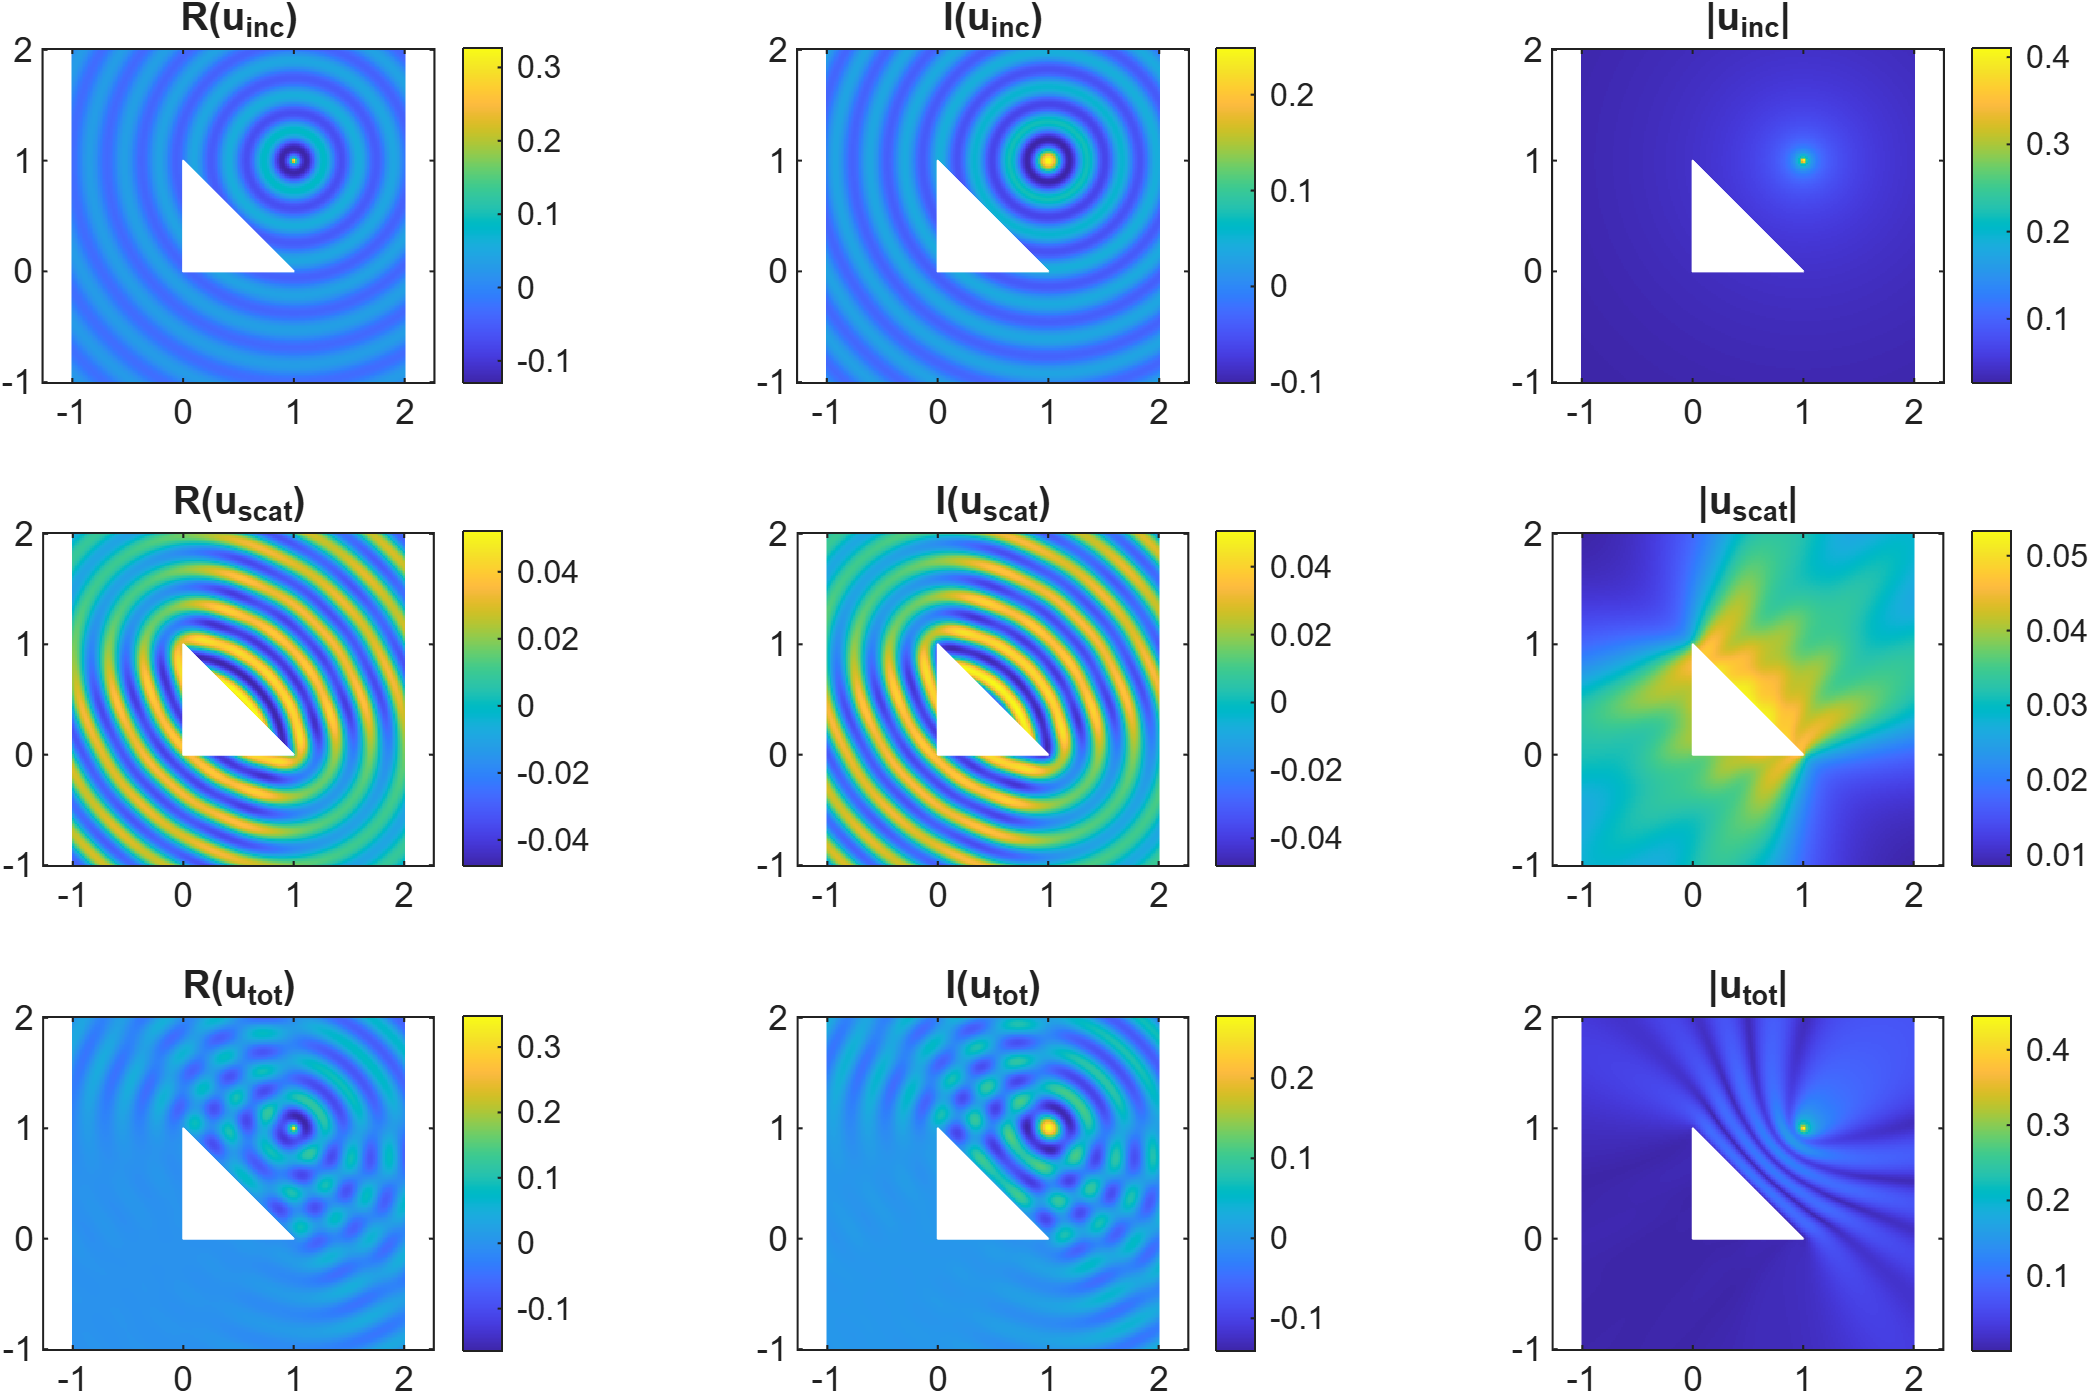
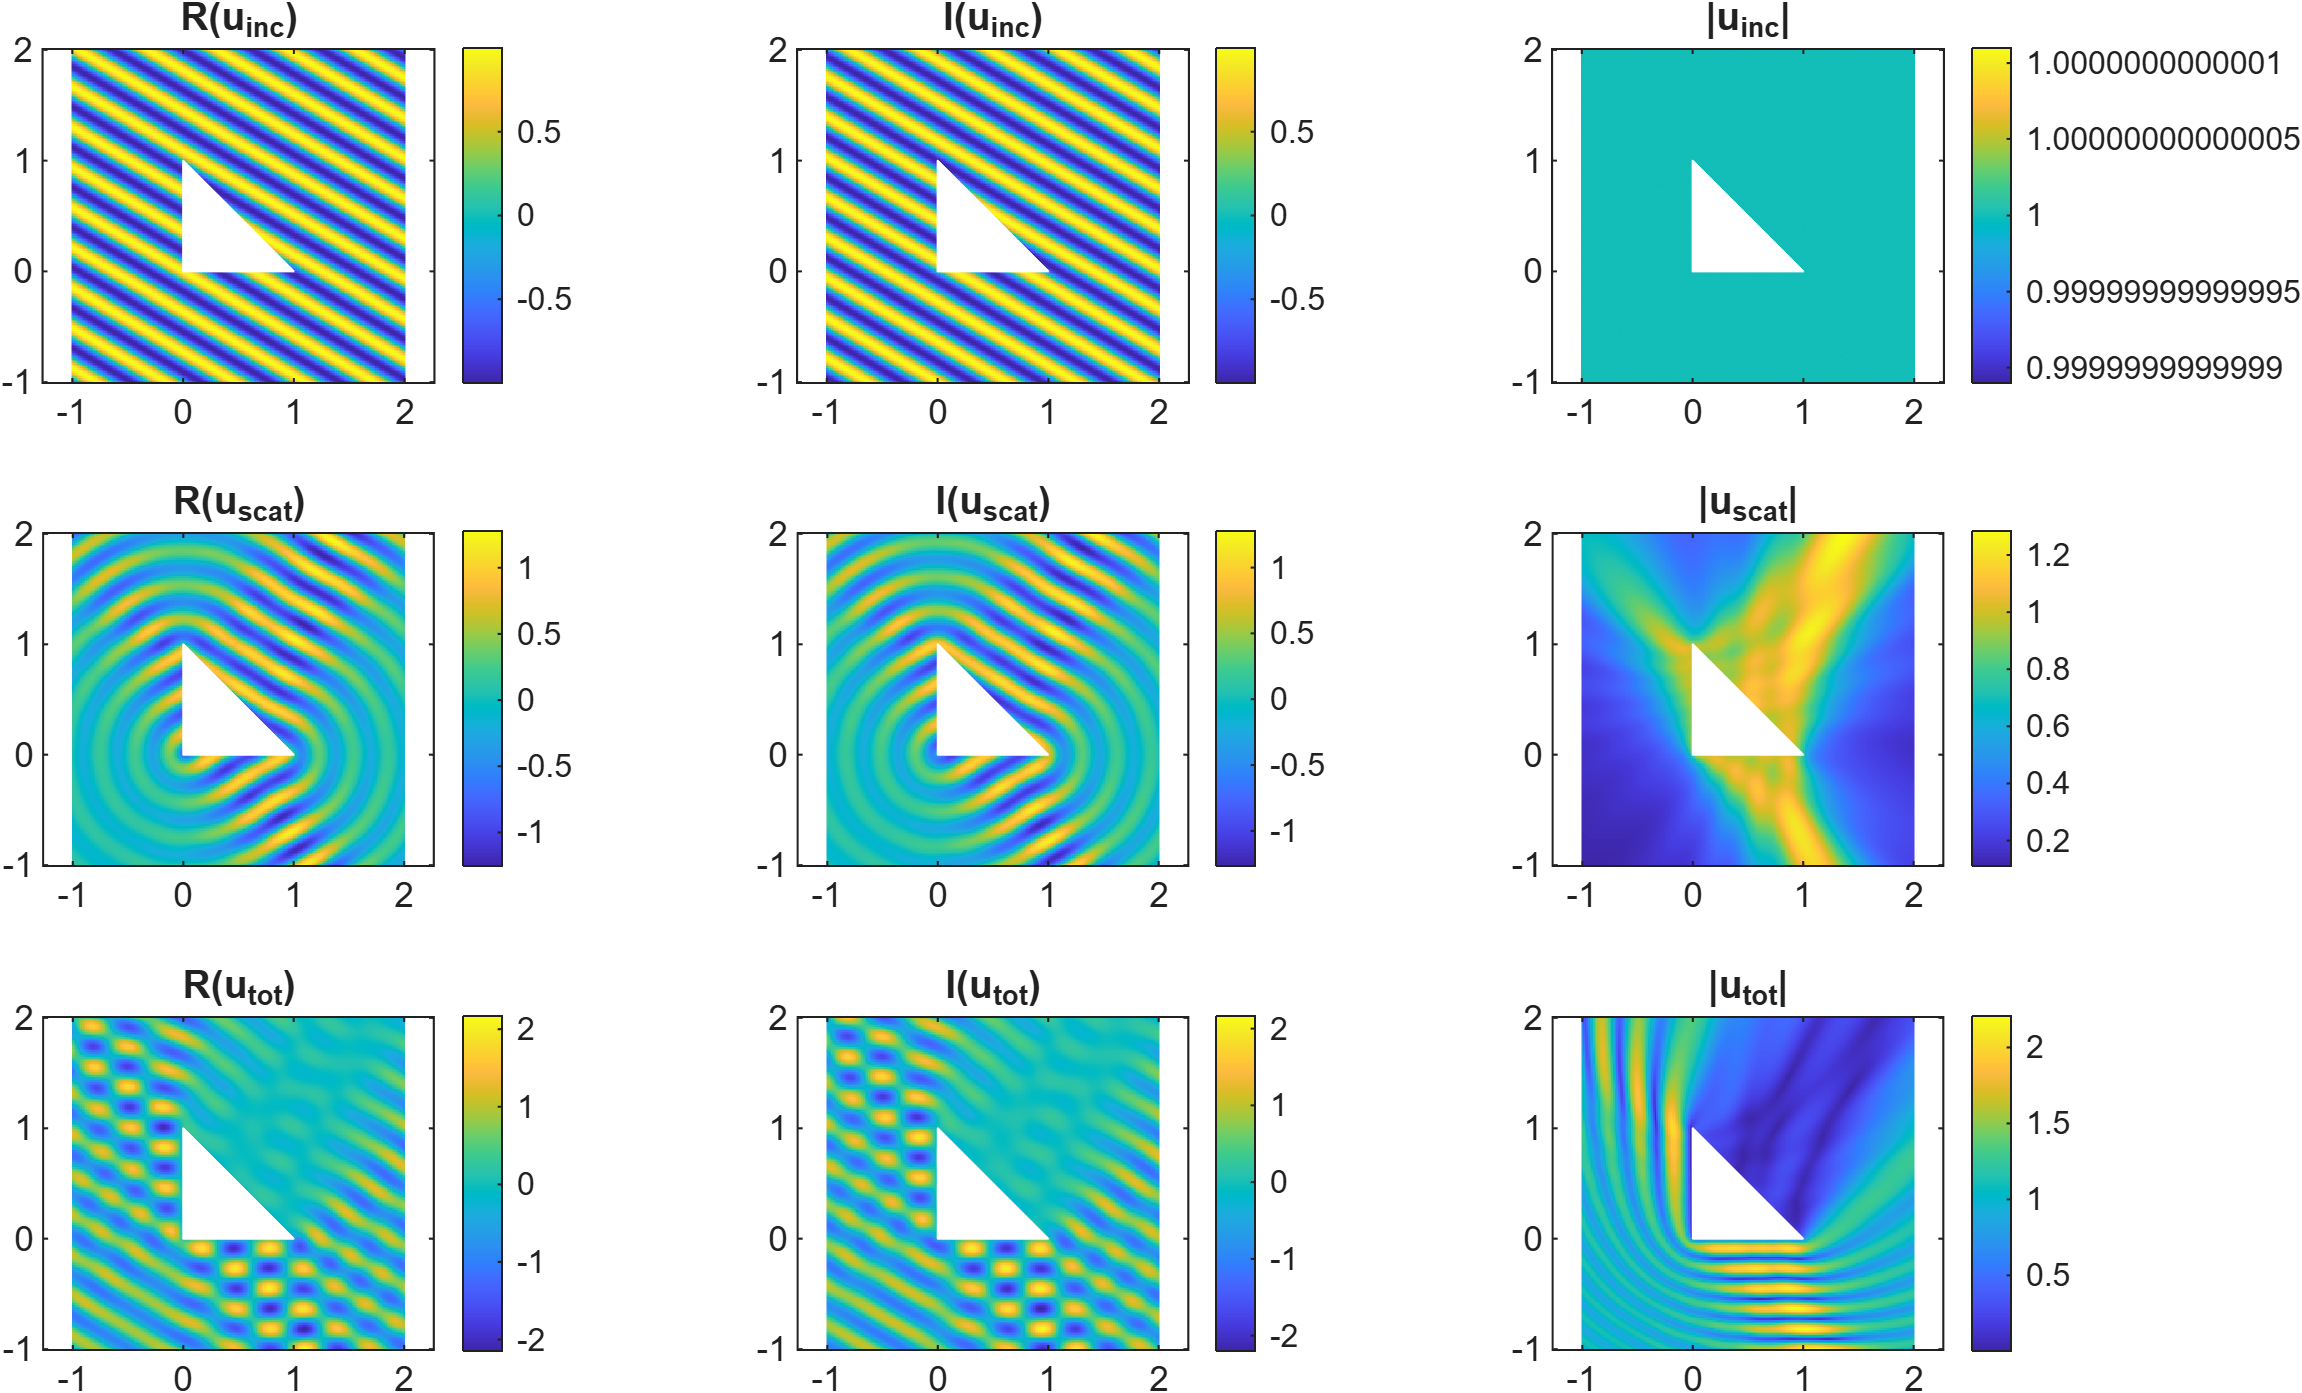
minor changes

diff --git a/BEM coding project/BEM_test.m b/BEM coding project/BEM_test.m
@@ -21,7 +21,7 @@ plane_wave = @(z) cos(k*(real(z)*d(1)+imag(z)*d(2))) + 1i*sin(k*(real(z)*d(1)+im
 x0 = 1+1i;
 
 sol_fondamentale_x0 = @(z) 0.25i*besselh(0,k*abs(z-x0));
-onda_incidente = sol_fondamentale_x0;
+onda_incidente = plane_wave;
 
 u =build_2D_solution(V, h_ideale,k, onda_incidente,a,b,n_points, q_quadratura);
 
@@ -138,6 +138,6 @@ exportgraphics(fig, "triangolo_solfond_k_20.png", 'Resolution', 300);
 
 % PER FARE ANIMAZIONI
 
-MyGiffer(xx,yy,u,V,"u_scatt_sol_fond.gif")
-MyGiffer(xx,yy,u_inc,V, "u_inc_sol_fond.gif")
-MyGiffer(xx,yy,u_tot, V,"u_tot_sol_fond.gif")
+MyGiffer(xx,yy,u,V,"u_scatt_plane_wave.gif")
+% MyGiffer(xx,yy,u_inc,V, "u_inc_sol_fond.gif")
+MyGiffer(xx,yy,u_tot, V,"u_tot_plane_wave.gif")
